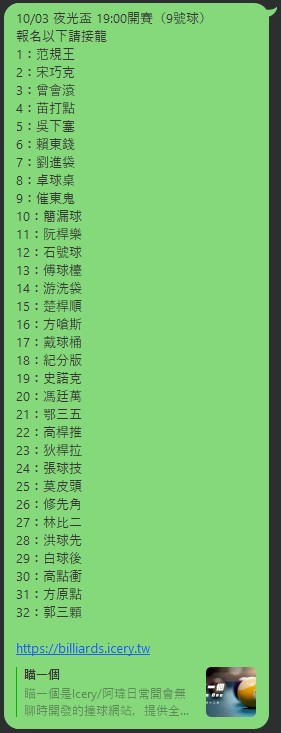
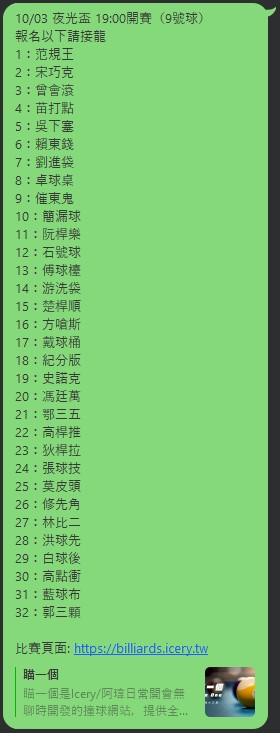
feat:(add-player-import-system): disabled image upload functions.

diff --git a/src/app/temp-image-upload/components/TempImageUpload.tsx b/src/app/temp-image-upload/components/TempImageUpload.tsx
@@ -29,7 +29,7 @@ const TempImageUpload: React.FC = () => {
   const [file, setFile] = useState<File | null>(null);
   const [preview, setPreview] = useState<string | null>(null);
   const [textInput, setTextInput] = useState<string>('');
-  const [inputMode, setInputMode] = useState<InputMode>('select');
+  const [inputMode, setInputMode] = useState<InputMode>('text'); // 暫時只允許輸入模式，因為圖片分辨率過低
   const [uploading, setUploading] = useState<boolean>(false);
   const [result, setResult] = useState<UploadResult | null>(null);
   const [isReady, setIsReady] = useState<boolean>(false);
@@ -90,7 +90,15 @@ const TempImageUpload: React.FC = () => {
       setResult(data);
 
       if (data.success) {
-        setTimeout(() => router.push(`${process.env.NEXT_PUBLIC_BASE_URL}`), 2000);
+        setTimeout(() => {
+          const redirect = window.confirm(`你要跳轉到${process.env.NEXT_PUBLIC_SITENAME}首頁嗎?\n按「取消」則關閉網頁`);
+
+          if (redirect) {
+            router.replace(`${process.env.NEXT_PUBLIC_BASE_URL}`);
+            return;
+          }
+          window.close();
+        }, 2000);
       }
     } catch (error) {
       console.error('提交錯誤:', error);
@@ -149,7 +157,13 @@ const TempImageUpload: React.FC = () => {
               <div className="text-green-600 font-medium mb-4">
                 {result.confidence === 100 ? '文字已提交' : `識別完成 (${result.confidence.toFixed(1)}%)`}
               </div>
-              <pre className="whitespace-pre-wrap text-sm p-3 rounded border max-h-48 overflow-auto">{result.text}</pre>
+              <textarea
+                className="w-full whitespace-pre-wrap text-sm p-3 rounded border max-h-48 overflow-auto"
+                disabled
+                value={result.text}
+                rows={12}
+              />
+
               <div className="mt-4 text-sm">2秒後自動跳轉...</div>
             </div>
           ) : (
@@ -166,7 +180,7 @@ const TempImageUpload: React.FC = () => {
 
   return (
     <div className="min-h-screen flex items-center justify-center">
-      <Card className="max-w-md w-full">
+      <Card className="max-w-2xl w-full">
         <h1 className="text-lg font-medium mb-4">選手名單導入</h1>
         <input
           ref={cameraInputRef}
@@ -228,38 +242,41 @@ const TempImageUpload: React.FC = () => {
           </div>
         )}
 
-        {inputMode === 'text' && (
-          <div>
-            <label className="block text-sm font-medium mb-2">輸入報名名單或其他文字內容：</label>
-            <textarea
-              value={textInput}
-              onChange={(e) => setTextInput(e.target.value)}
-              placeholder={`※一位選手一行\n格式：[數字][冒號][選手名稱]\n\n例如：\n1：選手一\n2：選手二\n...`}
-              className="w-full p-3 border border-gray-300 rounded-md"
-              rows={12}
-            />
-            <div className="space-y-3 mt-4">
-              <Button
-                text={uploading ? '提交中...' : '提交文字'}
-                onClick={handleSubmit}
-                disabled={uploading || !textInput.trim()}
-                className="w-full"
+        <div className="flex flex-col md:flex-row gap-4">
+          {inputMode === 'text' && (
+            <div className="w-full">
+              <textarea
+                value={textInput}
+                onChange={(e) => setTextInput(e.target.value)}
+                placeholder={`※一位選手一行(不需加空白)\n格式：[數字][冒號][選手名稱]\n\n例如：\n1：選手一\n2：選手二\n...`}
+                className="w-full p-3 border border-gray-300 rounded-md"
+                rows={12}
               />
-              <Button text="返回選擇" onClick={resetToSelection} className="w-full" />
+              <div className="space-y-3 mt-4">
+                <Button
+                  text={uploading ? '提交中...' : '提交文字'}
+                  onClick={handleSubmit}
+                  disabled={uploading || !textInput.trim()}
+                  className="w-full"
+                />
+                {/* <Button text="返回選擇" onClick={resetToSelection} className="w-full" /> */}
+              </div>
             </div>
-          </div>
-        )}
+          )}
 
-        <span>範例</span>
-        <Image
-          src="/assets/gamers.jpg"
-          alt={`${process.env.NEXT_PUBLIC_SITENAME}選手名單導入`}
-          width={773}
-          height={281}
-          className="rounded-xl w-[281px] h-[773px] mx-auto"
-          placeholder="blur"
-          blurDataURL="/assets/gamers.jpg"
-        />
+          <div>
+            <label className="text-sm">Line群組報名可直接複製名單，但一樣要參照格式</label>
+            <Image
+              src="/assets/gamers.jpg"
+              alt={`${process.env.NEXT_PUBLIC_SITENAME}選手名單導入`}
+              width={773}
+              height={280}
+              className="rounded-xl w-[280px] h-fit mx-auto"
+              placeholder="blur"
+              blurDataURL="/assets/gamers.jpg"
+            />
+          </div>
+        </div>
       </Card>
     </div>
   );

diff --git a/src/global-components/QRButton.tsx b/src/global-components/QRButton.tsx
@@ -3,6 +3,7 @@
 import { ReactElement, useCallback, useEffect, useMemo, useRef, useState } from 'react';
 
 import Image from 'next/image';
+import Link from 'next/link';
 
 import { getImportNamesFromText } from '@/features/tournaments/helper';
 
@@ -14,6 +15,7 @@ import { DraggableTagGroup } from './tags/DraggableTagGroup';
 interface QRSession {
   sessionId: string;
   qrCodeDataUrl: string;
+  uploadUrl: string;
   expiresAt: string;
 }
 
@@ -261,15 +263,17 @@ const QRButton = ({ onImportNames }: QRButtonProps): ReactElement => {
           </div>
 
           <div className="mb-4">
-            <Image
-              src={session.qrCodeDataUrl}
-              alt={`${process.env.NEXT_PUBLIC_SITENAME} 名單導入QR code`}
-              width={150}
-              height={150}
-              className="mx-auto border rounded-lg shadow-sm"
-              placeholder="blur"
-              blurDataURL={session.qrCodeDataUrl}
-            />
+            <Link href={session.uploadUrl} target="_blank" title={`${process.env.NEXT_PUBLIC_SITENAME}名單導入QR code`}>
+              <Image
+                src={session.qrCodeDataUrl}
+                alt={`${process.env.NEXT_PUBLIC_SITENAME}名單導入QR code`}
+                width={150}
+                height={150}
+                className="mx-auto border rounded-lg shadow-sm"
+                placeholder="blur"
+                blurDataURL={session.qrCodeDataUrl}
+              />
+            </Link>
           </div>
 
           <div className="mb-4">

diff --git a/src/pages/api/qr-session.ts b/src/pages/api/qr-session.ts
@@ -10,6 +10,7 @@ interface QRResponse {
   success: boolean;
   sessionId: string;
   qrCodeDataUrl: string;
+  uploadUrl: string;
   expiresAt: string;
 }
 
@@ -60,6 +61,7 @@ const qrHandler = async (req: NextApiRequest, res: NextApiResponse<QRApiResponse
         success: true,
         sessionId,
         qrCodeDataUrl,
+        uploadUrl,
         expiresAt: new Date(expiresAt).toISOString(),
       });
     } catch (error) {
